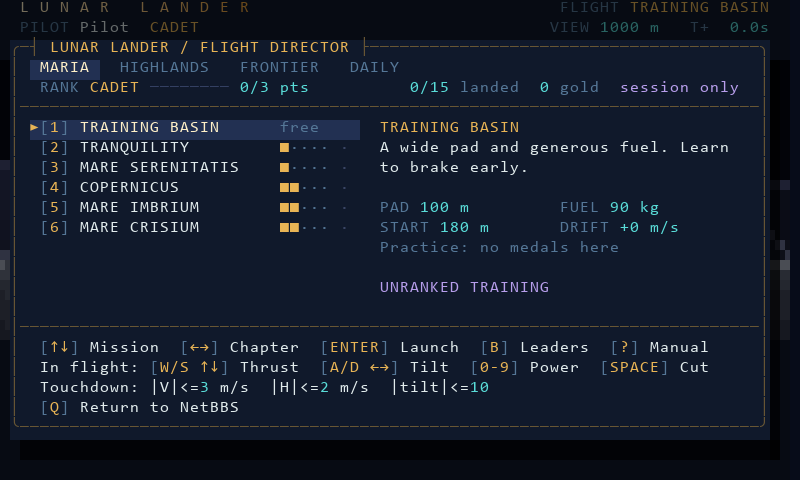
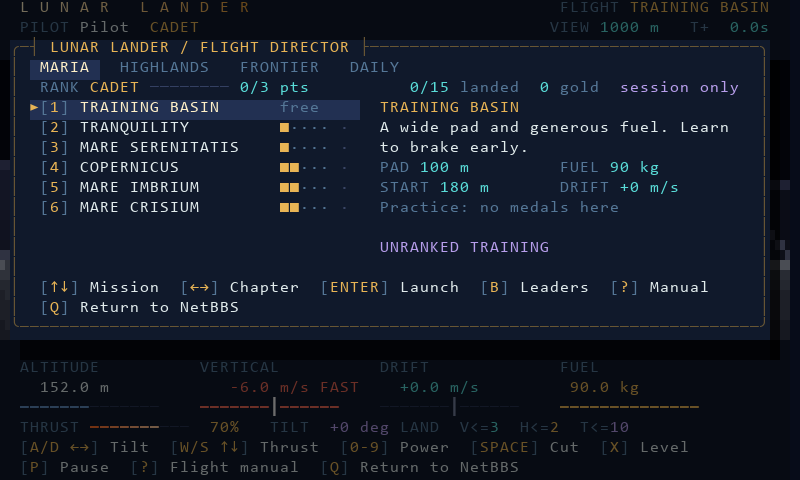
feat: a compact flight director keeps the cockpit in view at 80x24
Since v0.3.0 a card that covers any instrument line clears the whole
instrument panel (#18), so at 80x24 the 20-row flight director left the
menu's backdrop without its gauges. Below 33 rows, where the centred
card would reach the instruments, the flight director is now compact:
15 rows under the header, no inner rules, two lines of description, and
the menu's own keys only. The flight keys and touchdown limits it drops
are on the instruments, which show whole below it again; its shadow
reaches their rule at most. Both ranking-note lines stay. The full card
is unchanged from 33 rows up.

Claude-Session: https://claude.ai/code/session_012LSa1p9Zi6JZnxCMNB1Lrm

diff --git a/lunar_lander.py b/lunar_lander.py
@@ -2330,9 +2330,14 @@ class Display:
                 c.fill(0, row, c.width, 1)
 
     def menu_box(self, c: Canvas) -> tuple[int, int, int, int]:
-        """The flight director's card: x, y, width and height."""
-        box_w, box_h = min(76, c.width - 2), 20
-        return (c.width - box_w) // 2, max(1, (c.height - box_h) // 2), box_w, box_h
+        """The flight director's card: x, y, width and height. Centred, the full
+        card clears the instruments from 33 rows; on a shorter screen a compact
+        one sits under the header, its shadow on the instruments' rule at most,
+        and the whole cockpit shows below it."""
+        box_w, y = min(76, c.width - 2), max(1, (c.height - 20) // 2)
+        if y + 20 <= c.height - 7:
+            return (c.width - box_w) // 2, y, box_w, 20
+        return (c.width - box_w) // 2, 2, box_w, 15
 
     def menu(self, c: Canvas, mission: Mission, catalog: tuple, record_note: str, clock_note: str):
         """The flight director: chapter tabs, the pilot's rank, the chapter's
@@ -2340,6 +2345,10 @@ class Display:
         unicode, deck = self.host.unicode, self.deck
         updown, sideways = self.arrows[1], self.arrows[0]
         x0, y0, box_w, box_h = self.menu_box(c)
+        # Compact: no rules, a shorter briefing, and only the menu's own keys; the
+        # flight keys and touchdown limits are on the instruments below it.
+        compact = box_h < 20
+        top = y0 + (3 if compact else 4)
         c.frame(x0, y0, box_w, box_h, "LUNAR LANDER / FLIGHT DIRECTOR", unicode)
         lx, rx = x0 + 3, x0 + 37
         rw = box_w - (rx - x0) - 3
@@ -2361,10 +2370,11 @@ class Display:
         tally = [(f"{ladder.landed}/{ladder.total}", 6), (" landed  ", 9), (str(ladder.golds), 6),
                  (" gold", 9)] + ([("  session only", 12)] if not deck.saved else [])
         c.rich(x0 + box_w - 3 - sum(_cells(t) for t, _ in tally), y0 + 2, tally, PANEL)
-        c.text(x0 + 1, y0 + 3, rule, EDGE, PANEL)
+        if not compact:
+            c.text(x0 + 1, y0 + 3, rule, EDGE, PANEL)
         pip, empty = ("■", "·") if unicode else ("#", ".")
         for n, entry in enumerate(chapter_missions(CHAPTERS[deck.chapter], catalog)):
-            row, chosen = y0 + 4 + n, entry.key == mission.key
+            row, chosen = top + n, entry.key == mission.key
             bg = HIGHLIGHT if chosen else PANEL
             if chosen:
                 c.fill(lx - 1, row, 33, 1, bg)
@@ -2380,24 +2390,26 @@ class Display:
             else:
                 c.text(lx + 24, row, "free", 9, bg)
         # The briefing.
-        c.text(rx, y0 + 4, plain(mission.name, rw), 5, PANEL)
-        for n, line in enumerate(textwrap.wrap(mission.description, rw)[:3]):
-            c.text(rx, y0 + 5 + n, line, 7, PANEL)
+        told = 2 if compact else 3  # lines of description
+        c.text(rx, top, plain(mission.name, rw), 5, PANEL)
+        for n, line in enumerate(textwrap.wrap(mission.description, rw)[:told]):
+            c.text(rx, top + 1 + n, line, 7, PANEL)
         stats = (("PAD", f"{mission.width:.0f} m"), ("FUEL", f"{mission.fuel:.0f} kg"),
                  ("START", f"{mission.altitude:.0f} m"), ("DRIFT", f"{mission.drift:+.0f} m/s"))
+        stats_row = top + 1 + told
         for n, (label, value) in enumerate(stats):
-            c.rich(rx + (n % 2) * 18, y0 + 8 + n // 2, [(label + " ", 9), (value, 6)], PANEL)
+            c.rich(rx + (n % 2) * 18, stats_row + n // 2, [(label + " ", 9), (value, 6)], PANEL)
         daily = CHAPTERS[deck.chapter].key == "daily"
         if mission.difficulty:
             best = deck.bests.get(mission.key, 0)
             earned = medal(mission, best)
-            c.rich(rx, y0 + 10, [("TODAY " if daily else "BEST ", 9)] +
+            c.rich(rx, stats_row + 2, [("TODAY " if daily else "BEST ", 9)] +
                    ([(f"{best} pts ", 6), (earned, MEDAL_COLORS[earned][1])] if earned else [("not landed yet", 9)]),
                    PANEL)
-            c.rich(rx, y0 + 11, [("GOLD ", MEDAL_COLORS["GOLD"][1]), (f"{1750 * mission.difficulty}  ", 6),
+            c.rich(rx, stats_row + 3, [("GOLD ", MEDAL_COLORS["GOLD"][1]), (f"{1750 * mission.difficulty}  ", 6),
                                  ("SILVER ", MEDAL_COLORS["SILVER"][1]), (f"{1400 * mission.difficulty}", 6)], PANEL)
         else:
-            c.text(rx, y0 + 10, "Practice: no medals here", 9, PANEL)
+            c.text(rx, stats_row + 2, "Practice: no medals here", 9, PANEL)
         note = record_note or ("UNRANKED TRAINING" if not mission.difficulty else "RANKED FLIGHT")
         if daily:
             notes = textwrap.wrap(clock_note.rstrip(".") + ". Not ranked.", rw)
@@ -2407,10 +2419,14 @@ class Display:
         else:
             notes = textwrap.wrap(note, rw)
         for n, line in enumerate(notes[:2]):
-            c.text(rx, y0 + 12 + n, plain(line, rw), 12, PANEL)
+            c.text(rx, stats_row + 4 + n, plain(line, rw), 12, PANEL)
+        keys = f"[{updown}] Mission  [{sideways}] Chapter  [ENTER] Launch  [B] Leaders  [?] Manual"
+        if compact:
+            c.annotated(lx, y0 + box_h - 3, keys, PANEL, box_w - 6)
+            c.annotated(lx, y0 + box_h - 2, self.back, PANEL, box_w - 6)
+            return
         c.text(x0 + 1, y0 + 14, rule, EDGE, PANEL)
-        c.annotated(lx, y0 + 15, f"[{updown}] Mission  [{sideways}] Chapter  [ENTER] Launch  [B] Leaders  [?] Manual",
-                    PANEL, box_w - 6)
+        c.annotated(lx, y0 + 15, keys, PANEL, box_w - 6)
         c.annotated(lx, y0 + 16, f"In flight: [W/S {updown}] Thrust  [A/D {sideways}] Tilt  [0-9] Power  [SPACE] Cut",
                     PANEL, box_w - 6)
         c.annotated(lx, y0 + 17, "Touchdown: |V|<=3 m/s  |H|<=2 m/s  |tilt|<=10", PANEL, box_w - 6)

diff --git a/tests/test_cards.py b/tests/test_cards.py
@@ -15,16 +15,18 @@ class CardTests(unittest.TestCase):
         return ll.Display(ll.Host(width, height, **kwargs)).draw(flight, mode, standings=[("Ace", 1780, 3)])
 
     def test_a_card_never_leaves_gauges_half_hidden(self):
-        # At 80x24 the menu, manual and debrief reach the instruments: the panel is
+        # At 80x24 the manual and debrief reach the instruments: the panel is
         # cleared edge to edge rather than showing fragments beside the card.
-        for mode in ("menu", "help", "debrief"):
+        for mode in ("help", "debrief"):
             with self.subTest(mode=mode):
                 instruments = text(self.draw(mode), range(17, 24))
                 for label in ("ALTITUDE", "THRUST", "FUEL", "Flight manual"):
                     self.assertNotIn(label, instruments)
 
     def test_a_card_that_misses_the_instruments_leaves_them(self):
-        for mode, size in (("paused", (80, 24)), ("scores", (80, 24)), ("help", (132, 50)), ("menu", (132, 50))):
+        # The flight director is compact below 33 rows, so the cockpit shows whole beneath it.
+        for mode, size in (("paused", (80, 24)), ("scores", (80, 24)), ("menu", (80, 24)), ("menu", (80, 30)),
+                           ("help", (132, 50)), ("menu", (132, 50))):
             with self.subTest(mode=mode, size=size):
                 canvas = self.draw(mode, *size)
                 self.assertIn("ALTITUDE", text(canvas, range(canvas.height - 7, canvas.height)))
@@ -42,6 +44,21 @@ class CardTests(unittest.TestCase):
         # A practice caller (no node) is never marked, even with a matching id.
         canvas = ll.Display(ll.Host(user=7)).draw(ll.training(), "scores", standings=standings)
         self.assertFalse(any(cell[2] == ll.HIGHLIGHT for row in canvas.cells for cell in row))
+
+
+class CompactMenuTests(unittest.TestCase):
+    def test_compact_below_33_rows_full_above(self):
+        for height, rows in ((24, 15), (32, 15), (33, 20), (50, 20)):
+            with self.subTest(height=height):
+                display = ll.Display(ll.Host(80, height))
+                x, y, width, card = display.menu_box(ll.Canvas(80, height))
+                self.assertEqual(card, rows)
+                # The card ends above the instruments; its shadow reaches their rule at most.
+                self.assertLessEqual(y + card, height - 7)
+                text = "\n".join("".join(cell[0] for cell in row) for row in
+                                 display.draw(ll.training(), "menu", mission=ll.missions()[1]).cells[y:y + card])
+                for words in ("FLIGHT DIRECTOR", "[ENTER] Launch", "Return to NetBBS", "PAD", "GOLD"):
+                    self.assertIn(words, text)
 
 
 if __name__ == "__main__":
